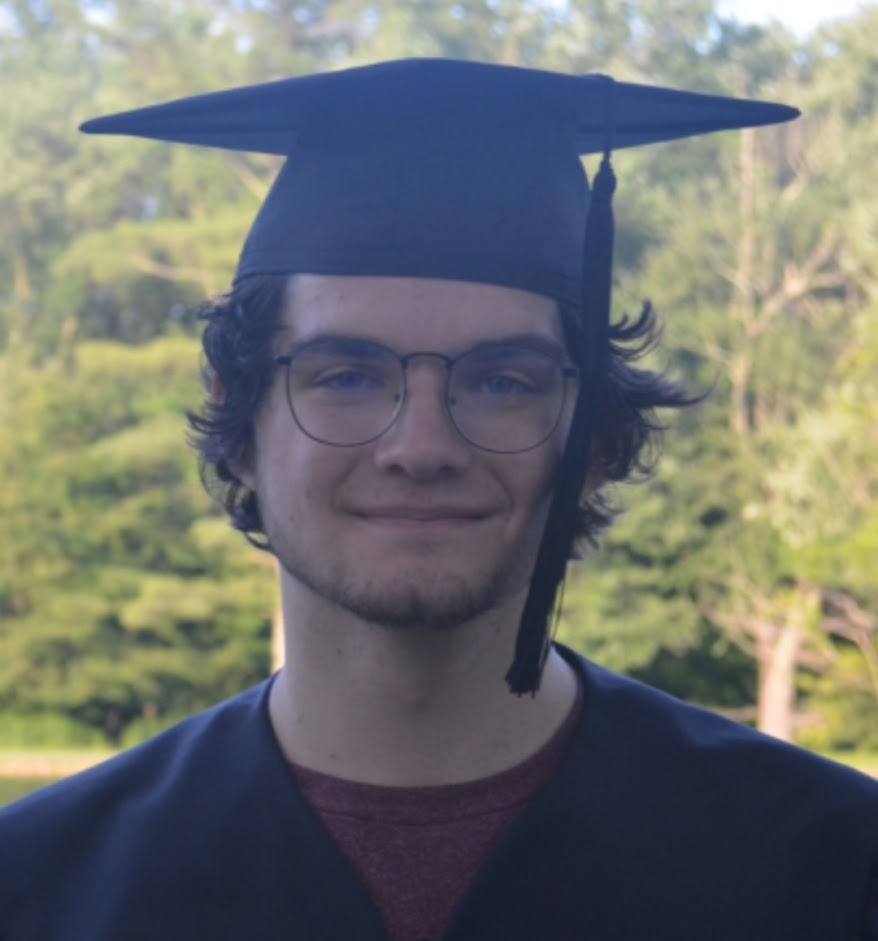
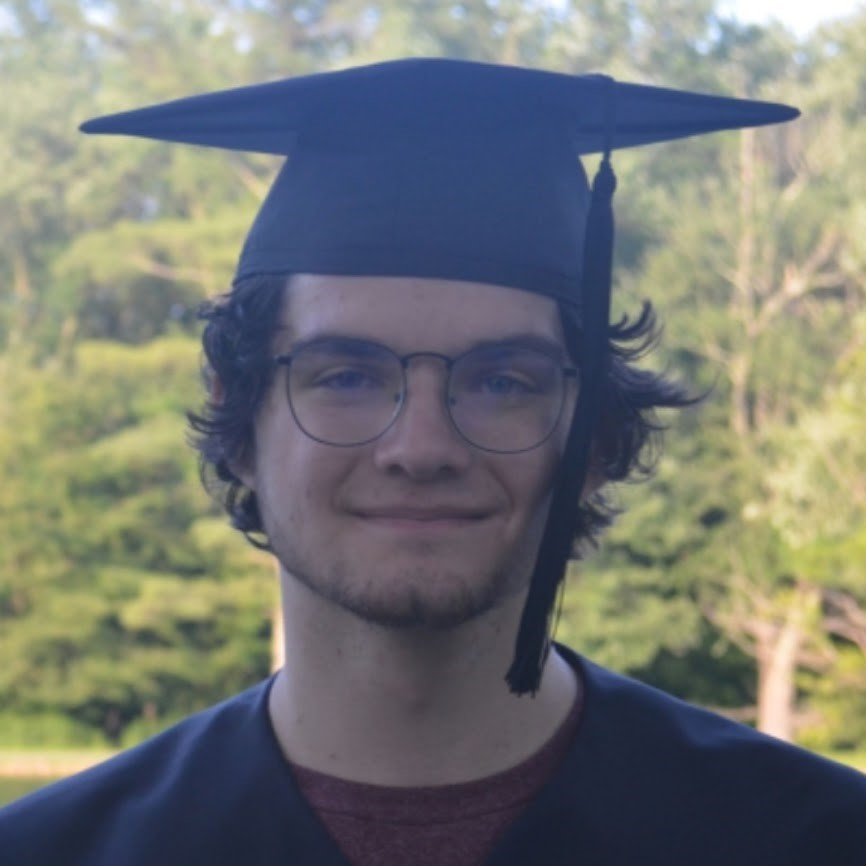
Updates

diff --git a/index.html b/index.html
@@ -15,7 +15,7 @@
         <div id="navbar">
             <ul id="ul-navbar">
                 <li class="li-navbar" id="name-title"><a href="#">Joseph Zurner</a></li>
-                <li class="li-navbar"><a href="#">ABOUT</a></li>
+                <li class="li-navbar"><a href="#about">ABOUT</a></li>
                 <li class="li-navbar"><a href="#">SKILLS</a></li>
                 <li class="li-navbar"><a href="#">PROJECTS</a></li>
                 <li class="li-navbar"><a href="#">TIMELINE</a></li>
@@ -36,12 +36,60 @@
 
 
     <div id="about">
-        <div id="about-name">Joseph Zurner</div>
-        <div id="about-tagline">UMGC '23, Cybersecurity Analyst and Researcher</div>
-        <div id="about-text">
-            Hello! I'm a recent graduate of UMGC's Cybersecurity Technologies path, through which I earned my bachelor's degree. My interests include blue-teaming, vulnerability research and development, and programming. I currently work at Rapid7 as an Associate Detection and Response Analyst.
+        <div id="about-left" style="margin-top: 80px">
+            <img id="pfp2" src="Resources/pfp2.png" alt="Second profile picture">
+            <div id="icons-container">
+                <a href="https://www.linkedin.com/in/joe-zurner/" target="_blank"><img src="Resources/linkedin-icon.png" alt="LinkedIn Icon" style="width: 40px; height: 40px;"></a>
+                <a href="https://github.com/jzurner1" target="_blank"><img src="Resources/github-icon.png" alt="GitHub Icon" style="width: 40px; height: 40px;"></a>
+            </div>
         </div>
-        
+        <div id="about-right" style="margin-top: 80px">
+            <div id="about-name">Joseph Zurner</div>
+            <div id="about-tagline">Rapid7</div>
+            <div id="about-text">
+                Hello! I'm a recent graduate of UMGC's Cybersecurity Technologies path, through which I earned my bachelor's degree. My interests include blue-teaming, programming, and vulnerability research and development.<br><br>I currently work at Rapid7 as an Associate Detection and Response Analyst.
+                <br><br>
+                <b>University of Maryland, Global Campus</b>
+                <ul class="about-list">
+                    <li>Bachelor of Science in Cybersecurity Technologies</li>
+                    <li>Certificate in Computer Networking</li>
+                    <li>Member of Cybersecurity competition team</li>
+                </ul>
+
+                <br>
+                <b>Harford Community College</b>
+                <ul class="about-list">
+                    <li>Associate Degree in General Studies</li>
+                </ul>
+            </div>
+        </div>
+    </div>
+
+    <div id="skills">
+        <div class="skills-container">
+            <div class="skill-item">skill</div>
+            <div class="skill-item">skill</div>
+            <div class="skill-item">skill</div>
+            <div class="skill-item">skill</div>
+        </div>
+        <div class="skills-container">
+            <div class="skill-item">skill</div>
+            <div class="skill-item">skill</div>
+            <div class="skill-item">skill</div>
+            <div class="skill-item">skill</div>
+        </div>
+        <div class="skills-container">
+            <div class="skill-item">skill</div>
+            <div class="skill-item">skill</div>
+            <div class="skill-item">skill</div>
+            <div class="skill-item">skill</div>
+        </div>
+        <div class="skills-container">
+            <div class="skill-item">skill</div>
+            <div class="skill-item">skill</div>
+            <div class="skill-item">skill</div>
+            <div class="skill-item">skill</div>
+        </div>
     </div>
 
 

diff --git a/index.css b/index.css
@@ -6,6 +6,7 @@
 
 html {
     scroll-behavior: smooth;
+    letter-spacing: 1px;
 }
 
 body {
@@ -83,34 +84,77 @@ body {
     border: 7px solid white;
 }
 
+#pfp2 {
+    width: 275px;
+    height: 275px;
+    border-radius: 50%;
+    margin-bottom: 20px;
+    border: 3px solid white;
+}
+
 #about {
-    background-color: blue;
     width: 1000px;
-    height: 1000px;
+    height: 600px;
     color: white;
-    text-align: center;
     margin: auto;
+    display: grid;
+    column-gap: 0;
+    grid-template-columns: 40% 60%;
+    margin-top: 40px;
 }
 
 #about-name {
-    background-color: darkgreen;
-    font-size: 175%;
+    font-size: 200%;
     width: fit-content;
-    margin: auto;
     margin-bottom: 10px;
 }
 
 #about-tagline {
-    background-color: red;
-    margin: auto;
     width: fit-content;
     margin-bottom: 10px;
     font-size: 125%;
 }
 
 #about-text {
-    background-color: black;
-    width: 800px;
-    margin: auto;
     line-height: 1.5;
+}
+
+#about-left {
+    text-align: center;
+}
+
+.about-list {
+    margin-left: 20px;
+}
+
+#icons-container {
+    width: fit-content;
+    margin: auto;
+    display: grid;
+    column-gap: 20px;
+    grid-template-columns: auto auto;
+}
+
+
+#skills {
+    width: 1500px;
+    margin: auto;
+    background-color: darkcyan;
+    display: grid;
+    column-gap: 20px;
+    row-gap: 10px;
+    grid-template-columns: auto auto auto auto;
+}
+
+.skills-container {
+    background-color: darkgoldenrod;
+    display: grid;
+    column-gap: 5px;
+    grid-template-columns: auto auto;
+    grid-template-rows: auto auto;
+}
+
+.skill-item {
+    background-color: darkmagenta;
+    width: fit-content;
 }
